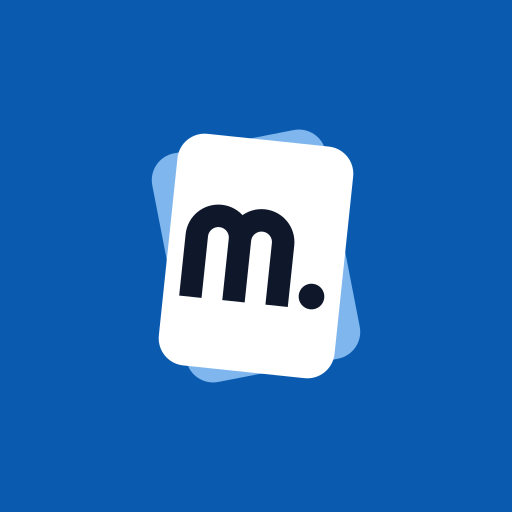
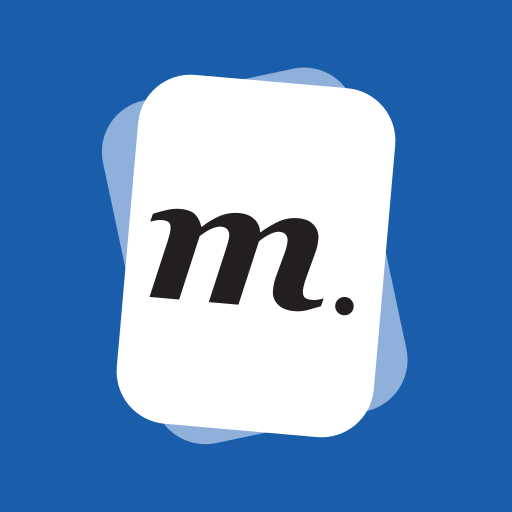
Add files via upload

Changed region(s): [[0.1875, 0.125, 0.8125, 0.875]]

diff --git a/sw.js b/sw.js
@@ -1,1 +1,1 @@
-try{self["workbox:core:7.4.0"]&&_()}catch(t){}const t=(t,...e)=>{let s=t;return e.length>0&&(s+=` :: ${JSON.stringify(e)}`),s};class e extends Error{constructor(e,s){super(t(e,s)),this.name=e,this.details=s}}try{self["workbox:routing:7.4.0"]&&_()}catch(t){}const s=t=>t&&"object"==typeof t?t:{handle:t};class n{constructor(t,e,n="GET"){this.handler=s(e),this.match=t,this.method=n}setCatchHandler(t){this.catchHandler=s(t)}}class i extends n{constructor(t,e,s){super(({url:e})=>{const s=t.exec(e.href);if(s&&(e.origin===location.origin||0===s.index))return s.slice(1)},e,s)}}class r{constructor(){this.t=new Map,this.i=new Map}get routes(){return this.t}addFetchListener(){self.addEventListener("fetch",t=>{const{request:e}=t,s=this.handleRequest({request:e,event:t});s&&t.respondWith(s)})}addCacheListener(){self.addEventListener("message",t=>{if(t.data&&"CACHE_URLS"===t.data.type){const{payload:e}=t.data,s=Promise.all(e.urlsToCache.map(e=>{"string"==typeof e&&(e=[e]);const s=new Request(...e);return this.handleRequest({request:s,event:t})}));t.waitUntil(s),t.ports&&t.ports[0]&&s.then(()=>t.ports[0].postMessage(!0))}})}handleRequest({request:t,event:e}){const s=new URL(t.url,location.href);if(!s.protocol.startsWith("http"))return;const n=s.origin===location.origin,{params:i,route:r}=this.findMatchingRoute({event:e,request:t,sameOrigin:n,url:s});let a=r&&r.handler;const o=t.method;if(!a&&this.i.has(o)&&(a=this.i.get(o)),!a)return;let c;try{c=a.handle({url:s,request:t,event:e,params:i})}catch(t){c=Promise.reject(t)}const h=r&&r.catchHandler;return c instanceof Promise&&(this.o||h)&&(c=c.catch(async n=>{if(h)try{return await h.handle({url:s,request:t,event:e,params:i})}catch(t){t instanceof Error&&(n=t)}if(this.o)return this.o.handle({url:s,request:t,event:e});throw n})),c}findMatchingRoute({url:t,sameOrigin:e,request:s,event:n}){const i=this.t.get(s.method)||[];for(const r of i){let i;const a=r.match({url:t,sameOrigin:e,request:s,event:n});if(a)return i=a,(Array.isArray(i)&&0===i.length||a.constructor===Object&&0===Object.keys(a).length||"boolean"==typeof a)&&(i=void 0),{route:r,params:i}}return{}}setDefaultHandler(t,e="GET"){this.i.set(e,s(t))}setCatchHandler(t){this.o=s(t)}registerRoute(t){this.t.has(t.method)||this.t.set(t.method,[]),this.t.get(t.method).push(t)}unregisterRoute(t){if(!this.t.has(t.method))throw new e("unregister-route-but-not-found-with-method",{method:t.method});const s=this.t.get(t.method).indexOf(t);if(!(s>-1))throw new e("unregister-route-route-not-registered");this.t.get(t.method).splice(s,1)}}let a;const o=()=>(a||(a=new r,a.addFetchListener(),a.addCacheListener()),a);function c(t,s,r){let a;if("string"==typeof t){const e=new URL(t,location.href);a=new n(({url:t})=>t.href===e.href,s,r)}else if(t instanceof RegExp)a=new i(t,s,r);else if("function"==typeof t)a=new n(t,s,r);else{if(!(t instanceof n))throw new e("unsupported-route-type",{moduleName:"workbox-routing",funcName:"registerRoute",paramName:"capture"});a=t}return o().registerRoute(a),a}const h={googleAnalytics:"googleAnalytics",precache:"precache-v2",prefix:"workbox",runtime:"runtime",suffix:"undefined"!=typeof registration?registration.scope:""},u=t=>[h.prefix,t,h.suffix].filter(t=>t&&t.length>0).join("-"),l=t=>t||u(h.precache),f=t=>t||u(h.runtime);function w(t){t.then(()=>{})}const d=new Set;function p(){return p=Object.assign?Object.assign.bind():function(t){for(var e=1;e<arguments.length;e++){var s=arguments[e];for(var n in s)({}).hasOwnProperty.call(s,n)&&(t[n]=s[n])}return t},p.apply(null,arguments)}let y,m;const g=new WeakMap,b=new WeakMap,v=new WeakMap,R=new WeakMap,q=new WeakMap;let D={get(t,e,s){if(t instanceof IDBTransaction){if("done"===e)return b.get(t);if("objectStoreNames"===e)return t.objectStoreNames||v.get(t);if("store"===e)return s.objectStoreNames[1]?void 0:s.objectStore(s.objectStoreNames[0])}return E(t[e])},set:(t,e,s)=>(t[e]=s,!0),has:(t,e)=>t instanceof IDBTransaction&&("done"===e||"store"===e)||e in t};function x(t){return t!==IDBDatabase.prototype.transaction||"objectStoreNames"in IDBTransaction.prototype?(m||(m=[IDBCursor.prototype.advance,IDBCursor.prototype.continue,IDBCursor.prototype.continuePrimaryKey])).includes(t)?function(...e){return t.apply(I(this),e),E(g.get(this))}:function(...e){return E(t.apply(I(this),e))}:function(e,...s){const n=t.call(I(this),e,...s);return v.set(n,e.sort?e.sort():[e]),E(n)}}function U(t){return"function"==typeof t?x(t):(t instanceof IDBTransaction&&function(t){if(b.has(t))return;const e=new Promise((e,s)=>{const n=()=>{t.removeEventListener("complete",i),t.removeEventListener("error",r),t.removeEventListener("abort",r)},i=()=>{e(),n()},r=()=>{s(t.error||new DOMException("AbortError","AbortError")),n()};t.addEventListener("complete",i),t.addEventListener("error",r),t.addEventListener("abort",r)});b.set(t,e)}(t),e=t,(y||(y=[IDBDatabase,IDBObjectStore,IDBIndex,IDBCursor,IDBTransaction])).some(t=>e instanceof t)?new Proxy(t,D):t);var e}function E(t){if(t instanceof IDBRequest)return function(t){const e=new Promise((e,s)=>{const n=()=>{t.removeEventListener("success",i),t.removeEventListener("error",r)},i=()=>{e(E(t.result)),n()},r=()=>{s(t.error),n()};t.addEventListener("success",i),t.addEventListener("error",r)});return e.then(e=>{e instanceof IDBCursor&&g.set(e,t)}).catch(()=>{}),q.set(e,t),e}(t);if(R.has(t))return R.get(t);const e=U(t);return e!==t&&(R.set(t,e),q.set(e,t)),e}const I=t=>q.get(t);const L=["get","getKey","getAll","getAllKeys","count"],N=["put","add","delete","clear"],T=new Map;function k(t,e){if(!(t instanceof IDBDatabase)||e in t||"string"!=typeof e)return;if(T.get(e))return T.get(e);const s=e.replace(/FromIndex$/,""),n=e!==s,i=N.includes(s);if(!(s in(n?IDBIndex:IDBObjectStore).prototype)||!i&&!L.includes(s))return;const r=async function(t,...e){const r=this.transaction(t,i?"readwrite":"readonly");let a=r.store;return n&&(a=a.index(e.shift())),(await Promise.all([a[s](...e),i&&r.done]))[0]};return T.set(e,r),r}D=(t=>p({},t,{get:(e,s,n)=>k(e,s)||t.get(e,s,n),has:(e,s)=>!!k(e,s)||t.has(e,s)}))(D);try{self["workbox:expiration:7.4.0"]&&_()}catch(t){}const C="cache-entries",O=t=>{const e=new URL(t,location.href);return e.hash="",e.href};class B{constructor(t){this.h=null,this.u=t}l(t){const e=t.createObjectStore(C,{keyPath:"id"});e.createIndex("cacheName","cacheName",{unique:!1}),e.createIndex("timestamp","timestamp",{unique:!1})}p(t){this.l(t),this.u&&function(t,{blocked:e}={}){const s=indexedDB.deleteDatabase(t);e&&s.addEventListener("blocked",t=>e(t.oldVersion,t)),E(s).then(()=>{})}(this.u)}async setTimestamp(t,e){const s={url:t=O(t),timestamp:e,cacheName:this.u,id:this.m(t)},n=(await this.getDb()).transaction(C,"readwrite",{durability:"relaxed"});await n.store.put(s),await n.done}async getTimestamp(t){const e=await this.getDb(),s=await e.get(C,this.m(t));return null==s?void 0:s.timestamp}async expireEntries(t,e){const s=await this.getDb();let n=await s.transaction(C).store.index("timestamp").openCursor(null,"prev");const i=[];let r=0;for(;n;){const s=n.value;s.cacheName===this.u&&(t&&s.timestamp<t||e&&r>=e?i.push(n.value):r++),n=await n.continue()}const a=[];for(const t of i)await s.delete(C,t.id),a.push(t.url);return a}m(t){return this.u+"|"+O(t)}async getDb(){return this.h||(this.h=await function(t,e,{blocked:s,upgrade:n,blocking:i,terminated:r}={}){const a=indexedDB.open(t,e),o=E(a);return n&&a.addEventListener("upgradeneeded",t=>{n(E(a.result),t.oldVersion,t.newVersion,E(a.transaction),t)}),s&&a.addEventListener("blocked",t=>s(t.oldVersion,t.newVersion,t)),o.then(t=>{r&&t.addEventListener("close",()=>r()),i&&t.addEventListener("versionchange",t=>i(t.oldVersion,t.newVersion,t))}).catch(()=>{}),o}("workbox-expiration",1,{upgrade:this.p.bind(this)})),this.h}}class P{constructor(t,e={}){this.v=!1,this.R=!1,this.q=e.maxEntries,this.D=e.maxAgeSeconds,this.U=e.matchOptions,this.u=t,this._=new B(t)}async expireEntries(){if(this.v)return void(this.R=!0);this.v=!0;const t=this.D?Date.now()-1e3*this.D:0,e=await this._.expireEntries(t,this.q),s=await self.caches.open(this.u);for(const t of e)await s.delete(t,this.U);this.v=!1,this.R&&(this.R=!1,w(this.expireEntries()))}async updateTimestamp(t){await this._.setTimestamp(t,Date.now())}async isURLExpired(t){if(this.D){const e=await this._.getTimestamp(t),s=Date.now()-1e3*this.D;return void 0===e||e<s}return!1}async delete(){this.R=!1,await this._.expireEntries(1/0)}}class M{constructor(t={}){this.cachedResponseWillBeUsed=async({event:t,request:e,cacheName:s,cachedResponse:n})=>{if(!n)return null;const i=this.I(n),r=this.L(s);w(r.expireEntries());const a=r.updateTimestamp(e.url);if(t)try{t.waitUntil(a)}catch(t){}return i?n:null},this.cacheDidUpdate=async({cacheName:t,request:e})=>{const s=this.L(t);await s.updateTimestamp(e.url),await s.expireEntries()},this.N=t,this.D=t.maxAgeSeconds,this.T=new Map,t.purgeOnQuotaError&&function(t){d.add(t)}(()=>this.deleteCacheAndMetadata())}L(t){if(t===f())throw new e("expire-custom-caches-only");let s=this.T.get(t);return s||(s=new P(t,this.N),this.T.set(t,s)),s}I(t){if(!this.D)return!0;const e=this.k(t);if(null===e)return!0;return e>=Date.now()-1e3*this.D}k(t){if(!t.headers.has("date"))return null;const e=t.headers.get("date"),s=new Date(e).getTime();return isNaN(s)?null:s}async deleteCacheAndMetadata(){for(const[t,e]of this.T)await self.caches.delete(t),await e.delete();this.T=new Map}}try{self["workbox:strategies:7.4.0"]&&_()}catch(t){}const S={cacheWillUpdate:async({response:t})=>200===t.status||0===t.status?t:null};function W(t,e){const s=new URL(t);for(const t of e)s.searchParams.delete(t);return s.href}class j{constructor(){this.promise=new Promise((t,e)=>{this.resolve=t,this.reject=e})}}function K(t){return"string"==typeof t?new Request(t):t}class A{constructor(t,e){this.C={},Object.assign(this,e),this.event=e.event,this.O=t,this.B=new j,this.P=[],this.M=[...t.plugins],this.S=new Map;for(const t of this.M)this.S.set(t,{});this.event.waitUntil(this.B.promise)}async fetch(t){const{event:s}=this;let n=K(t);if("navigate"===n.mode&&s instanceof FetchEvent&&s.preloadResponse){const t=await s.preloadResponse;if(t)return t}const i=this.hasCallback("fetchDidFail")?n.clone():null;try{for(const t of this.iterateCallbacks("requestWillFetch"))n=await t({request:n.clone(),event:s})}catch(t){if(t instanceof Error)throw new e("plugin-error-request-will-fetch",{thrownErrorMessage:t.message})}const r=n.clone();try{let t;t=await fetch(n,"navigate"===n.mode?void 0:this.O.fetchOptions);for(const e of this.iterateCallbacks("fetchDidSucceed"))t=await e({event:s,request:r,response:t});return t}catch(t){throw i&&await this.runCallbacks("fetchDidFail",{error:t,event:s,originalRequest:i.clone(),request:r.clone()}),t}}async fetchAndCachePut(t){const e=await this.fetch(t),s=e.clone();return this.waitUntil(this.cachePut(t,s)),e}async cacheMatch(t){const e=K(t);let s;const{cacheName:n,matchOptions:i}=this.O,r=await this.getCacheKey(e,"read"),a=Object.assign(Object.assign({},i),{cacheName:n});s=await caches.match(r,a);for(const t of this.iterateCallbacks("cachedResponseWillBeUsed"))s=await t({cacheName:n,matchOptions:i,cachedResponse:s,request:r,event:this.event})||void 0;return s}async cachePut(t,s){const n=K(t);var i;await(i=0,new Promise(t=>setTimeout(t,i)));const r=await this.getCacheKey(n,"write");if(!s)throw new e("cache-put-with-no-response",{url:(a=r.url,new URL(String(a),location.href).href.replace(new RegExp(`^${location.origin}`),""))});var a;const o=await this.W(s);if(!o)return!1;const{cacheName:c,matchOptions:h}=this.O,u=await self.caches.open(c),l=this.hasCallback("cacheDidUpdate"),f=l?await async function(t,e,s,n){const i=W(e.url,s);if(e.url===i)return t.match(e,n);const r=Object.assign(Object.assign({},n),{ignoreSearch:!0}),a=await t.keys(e,r);for(const e of a)if(i===W(e.url,s))return t.match(e,n)}(u,r.clone(),["__WB_REVISION__"],h):null;try{await u.put(r,l?o.clone():o)}catch(t){if(t instanceof Error)throw"QuotaExceededError"===t.name&&await async function(){for(const t of d)await t()}(),t}for(const t of this.iterateCallbacks("cacheDidUpdate"))await t({cacheName:c,oldResponse:f,newResponse:o.clone(),request:r,event:this.event});return!0}async getCacheKey(t,e){const s=`${t.url} | ${e}`;if(!this.C[s]){let n=t;for(const t of this.iterateCallbacks("cacheKeyWillBeUsed"))n=K(await t({mode:e,request:n,event:this.event,params:this.params}));this.C[s]=n}return this.C[s]}hasCallback(t){for(const e of this.O.plugins)if(t in e)return!0;return!1}async runCallbacks(t,e){for(const s of this.iterateCallbacks(t))await s(e)}*iterateCallbacks(t){for(const e of this.O.plugins)if("function"==typeof e[t]){const s=this.S.get(e),n=n=>{const i=Object.assign(Object.assign({},n),{state:s});return e[t](i)};yield n}}waitUntil(t){return this.P.push(t),t}async doneWaiting(){for(;this.P.length;){const t=this.P.splice(0),e=(await Promise.allSettled(t)).find(t=>"rejected"===t.status);if(e)throw e.reason}}destroy(){this.B.resolve(null)}async W(t){let e=t,s=!1;for(const t of this.iterateCallbacks("cacheWillUpdate"))if(e=await t({request:this.request,response:e,event:this.event})||void 0,s=!0,!e)break;return s||e&&200!==e.status&&(e=void 0),e}}class F{constructor(t={}){this.cacheName=f(t.cacheName),this.plugins=t.plugins||[],this.fetchOptions=t.fetchOptions,this.matchOptions=t.matchOptions}handle(t){const[e]=this.handleAll(t);return e}handleAll(t){t instanceof FetchEvent&&(t={event:t,request:t.request});const e=t.event,s="string"==typeof t.request?new Request(t.request):t.request,n="params"in t?t.params:void 0,i=new A(this,{event:e,request:s,params:n}),r=this.j(i,s,e);return[r,this.K(r,i,s,e)]}async j(t,s,n){let i;await t.runCallbacks("handlerWillStart",{event:n,request:s});try{if(i=await this.A(s,t),!i||"error"===i.type)throw new e("no-response",{url:s.url})}catch(e){if(e instanceof Error)for(const r of t.iterateCallbacks("handlerDidError"))if(i=await r({error:e,event:n,request:s}),i)break;if(!i)throw e}for(const e of t.iterateCallbacks("handlerWillRespond"))i=await e({event:n,request:s,response:i});return i}async K(t,e,s,n){let i,r;try{i=await t}catch(r){}try{await e.runCallbacks("handlerDidRespond",{event:n,request:s,response:i}),await e.doneWaiting()}catch(t){t instanceof Error&&(r=t)}if(await e.runCallbacks("handlerDidComplete",{event:n,request:s,response:i,error:r}),e.destroy(),r)throw r}}class $ extends F{constructor(t={}){super(t),this.plugins.some(t=>"cacheWillUpdate"in t)||this.plugins.unshift(S),this.F=t.networkTimeoutSeconds||0}async A(t,s){const n=[],i=[];let r;if(this.F){const{id:e,promise:a}=this.$({request:t,logs:n,handler:s});r=e,i.push(a)}const a=this.H({timeoutId:r,request:t,logs:n,handler:s});i.push(a);const o=await s.waitUntil((async()=>await s.waitUntil(Promise.race(i))||await a)());if(!o)throw new e("no-response",{url:t.url});return o}$({request:t,logs:e,handler:s}){let n;return{promise:new Promise(e=>{n=setTimeout(async()=>{e(await s.cacheMatch(t))},1e3*this.F)}),id:n}}async H({timeoutId:t,request:e,logs:s,handler:n}){let i,r;try{r=await n.fetchAndCachePut(e)}catch(t){t instanceof Error&&(i=t)}return t&&clearTimeout(t),!i&&r||(r=await n.cacheMatch(e)),r}}function H(t,e){const s=e();return t.waitUntil(s),s}try{self["workbox:precaching:7.4.0"]&&_()}catch(t){}function G(t){if(!t)throw new e("add-to-cache-list-unexpected-type",{entry:t});if("string"==typeof t){const e=new URL(t,location.href);return{cacheKey:e.href,url:e.href}}const{revision:s,url:n}=t;if(!n)throw new e("add-to-cache-list-unexpected-type",{entry:t});if(!s){const t=new URL(n,location.href);return{cacheKey:t.href,url:t.href}}const i=new URL(n,location.href),r=new URL(n,location.href);return i.searchParams.set("__WB_REVISION__",s),{cacheKey:i.href,url:r.href}}class V{constructor(){this.updatedURLs=[],this.notUpdatedURLs=[],this.handlerWillStart=async({request:t,state:e})=>{e&&(e.originalRequest=t)},this.cachedResponseWillBeUsed=async({event:t,state:e,cachedResponse:s})=>{if("install"===t.type&&e&&e.originalRequest&&e.originalRequest instanceof Request){const t=e.originalRequest.url;s?this.notUpdatedURLs.push(t):this.updatedURLs.push(t)}return s}}}class J{constructor({precacheController:t}){this.cacheKeyWillBeUsed=async({request:t,params:e})=>{const s=(null==e?void 0:e.cacheKey)||this.G.getCacheKeyForURL(t.url);return s?new Request(s,{headers:t.headers}):t},this.G=t}}let Q,z;async function X(t,s){let n=null;if(t.url){n=new URL(t.url).origin}if(n!==self.location.origin)throw new e("cross-origin-copy-response",{origin:n});const i=t.clone(),r={headers:new Headers(i.headers),status:i.status,statusText:i.statusText},a=function(){if(void 0===Q){const t=new Response("");if("body"in t)try{new Response(t.body),Q=!0}catch(t){Q=!1}Q=!1}return Q}()?i.body:await i.blob();return new Response(a,r)}class Y extends F{constructor(t={}){t.cacheName=l(t.cacheName),super(t),this.V=!1!==t.fallbackToNetwork,this.plugins.push(Y.copyRedirectedCacheableResponsesPlugin)}async A(t,e){const s=await e.cacheMatch(t);return s||(e.event&&"install"===e.event.type?await this.J(t,e):await this.X(t,e))}async X(t,s){let n;const i=s.params||{};if(!this.V)throw new e("missing-precache-entry",{cacheName:this.cacheName,url:t.url});{const e=i.integrity,r=t.integrity,a=!r||r===e;n=await s.fetch(new Request(t,{integrity:"no-cors"!==t.mode?r||e:void 0})),e&&a&&"no-cors"!==t.mode&&(this.Y(),await s.cachePut(t,n.clone()))}return n}async J(t,s){this.Y();const n=await s.fetch(t);if(!await s.cachePut(t,n.clone()))throw new e("bad-precaching-response",{url:t.url,status:n.status});return n}Y(){let t=null,e=0;for(const[s,n]of this.plugins.entries())n!==Y.copyRedirectedCacheableResponsesPlugin&&(n===Y.defaultPrecacheCacheabilityPlugin&&(t=s),n.cacheWillUpdate&&e++);0===e?this.plugins.push(Y.defaultPrecacheCacheabilityPlugin):e>1&&null!==t&&this.plugins.splice(t,1)}}Y.defaultPrecacheCacheabilityPlugin={cacheWillUpdate:async({response:t})=>!t||t.status>=400?null:t},Y.copyRedirectedCacheableResponsesPlugin={cacheWillUpdate:async({response:t})=>t.redirected?await X(t):t};class Z{constructor({cacheName:t,plugins:e=[],fallbackToNetwork:s=!0}={}){this.Z=new Map,this.tt=new Map,this.et=new Map,this.O=new Y({cacheName:l(t),plugins:[...e,new J({precacheController:this})],fallbackToNetwork:s}),this.install=this.install.bind(this),this.activate=this.activate.bind(this)}get strategy(){return this.O}precache(t){this.addToCacheList(t),this.st||(self.addEventListener("install",this.install),self.addEventListener("activate",this.activate),this.st=!0)}addToCacheList(t){const s=[];for(const n of t){"string"==typeof n?s.push(n):n&&void 0===n.revision&&s.push(n.url);const{cacheKey:t,url:i}=G(n),r="string"!=typeof n&&n.revision?"reload":"default";if(this.Z.has(i)&&this.Z.get(i)!==t)throw new e("add-to-cache-list-conflicting-entries",{firstEntry:this.Z.get(i),secondEntry:t});if("string"!=typeof n&&n.integrity){if(this.et.has(t)&&this.et.get(t)!==n.integrity)throw new e("add-to-cache-list-conflicting-integrities",{url:i});this.et.set(t,n.integrity)}if(this.Z.set(i,t),this.tt.set(i,r),s.length>0){const t=`Workbox is precaching URLs without revision info: ${s.join(", ")}\nThis is generally NOT safe. Learn more at https://bit.ly/wb-precache`;console.warn(t)}}}install(t){return H(t,async()=>{const e=new V;this.strategy.plugins.push(e);for(const[e,s]of this.Z){const n=this.et.get(s),i=this.tt.get(e),r=new Request(e,{integrity:n,cache:i,credentials:"same-origin"});await Promise.all(this.strategy.handleAll({params:{cacheKey:s},request:r,event:t}))}const{updatedURLs:s,notUpdatedURLs:n}=e;return{updatedURLs:s,notUpdatedURLs:n}})}activate(t){return H(t,async()=>{const t=await self.caches.open(this.strategy.cacheName),e=await t.keys(),s=new Set(this.Z.values()),n=[];for(const i of e)s.has(i.url)||(await t.delete(i),n.push(i.url));return{deletedURLs:n}})}getURLsToCacheKeys(){return this.Z}getCachedURLs(){return[...this.Z.keys()]}getCacheKeyForURL(t){const e=new URL(t,location.href);return this.Z.get(e.href)}getIntegrityForCacheKey(t){return this.et.get(t)}async matchPrecache(t){const e=t instanceof Request?t.url:t,s=this.getCacheKeyForURL(e);if(s){return(await self.caches.open(this.strategy.cacheName)).match(s)}}createHandlerBoundToURL(t){const s=this.getCacheKeyForURL(t);if(!s)throw new e("non-precached-url",{url:t});return e=>(e.request=new Request(t),e.params=Object.assign({cacheKey:s},e.params),this.strategy.handle(e))}}const tt=()=>(z||(z=new Z),z);class et extends n{constructor(t,e){super(({request:s})=>{const n=t.getURLsToCacheKeys();for(const i of function*(t,{ignoreURLParametersMatching:e=[/^utm_/,/^fbclid$/],directoryIndex:s="index.html",cleanURLs:n=!0,urlManipulation:i}={}){const r=new URL(t,location.href);r.hash="",yield r.href;const a=function(t,e=[]){for(const s of[...t.searchParams.keys()])e.some(t=>t.test(s))&&t.searchParams.delete(s);return t}(r,e);if(yield a.href,s&&a.pathname.endsWith("/")){const t=new URL(a.href);t.pathname+=s,yield t.href}if(n){const t=new URL(a.href);t.pathname+=".html",yield t.href}if(i){const t=i({url:r});for(const e of t)yield e.href}}(s.url,e)){const e=n.get(i);if(e){return{cacheKey:e,integrity:t.getIntegrityForCacheKey(e)}}}},t.strategy)}}var st,nt;self.skipWaiting(),self.addEventListener("activate",()=>self.clients.claim()),st={},function(t){tt().precache(t)}([{url:"pwa-512x512.png",revision:"1fd420bc8058b2bba0c0f84189c8d31b"},{url:"pwa-192x192.png",revision:"097ad879199299e0e3b0fd56ab47b83e"},{url:"maskable-512x512.png",revision:"536bc645c5a0650024ed2747326671a7"},{url:"manifest.webmanifest",revision:"12393d45d35449ba7c7c7ca041d455ab"},{url:"index.html",revision:"d3cb89ab71cb25ec2ee5a0197d181b29"},{url:"favicon.svg",revision:"472b593ad4a8e5982a4cba7069d97bfe"},{url:"favicon-64.png",revision:"10cc7a01b8038af8b070ee0870e2d288"},{url:"apple-touch-icon.png",revision:"b9e2a7d5e29e57eb29741cd7cdb88215"},{url:"manifest.webmanifest",revision:"12393d45d35449ba7c7c7ca041d455ab"}]),function(t){const e=tt();c(new et(e,t))}(st),self.addEventListener("activate",t=>{const e=l();t.waitUntil((async(t,e="-precache-")=>{const s=(await self.caches.keys()).filter(s=>s.includes(e)&&s.includes(self.registration.scope)&&s!==t);return await Promise.all(s.map(t=>self.caches.delete(t))),s})(e).then(t=>{}))}),c(new class extends n{constructor(t,{allowlist:e=[/./],denylist:s=[]}={}){super(t=>this.nt(t),t),this.it=e,this.rt=s}nt({url:t,request:e}){if(e&&"navigate"!==e.mode)return!1;const s=t.pathname+t.search;for(const t of this.rt)if(t.test(s))return!1;return!!this.it.some(t=>t.test(s))}}((nt="index.html",tt().createHandlerBoundToURL(nt)))),c(/\/dictionary\.csv(\?.*)?$/,new $({cacheName:"eesti2000-dictionary",networkTimeoutSeconds:6,plugins:[new M({maxEntries:2})]}),"GET"),c(/\/grammar\.csv(\?.*)?$/,new $({cacheName:"eesti2000-grammar",networkTimeoutSeconds:6,plugins:[new M({maxEntries:2})]}),"GET"),c(/\/greetings\.csv(\?.*)?$/,new $({cacheName:"eesti2000-greetings",networkTimeoutSeconds:6,plugins:[new M({maxEntries:2})]}),"GET"),c(/\/praise\.csv(\?.*)?$/,new $({cacheName:"eesti2000-praise",networkTimeoutSeconds:6,plugins:[new M({maxEntries:2})]}),"GET");
+try{self["workbox:core:7.4.0"]&&_()}catch(t){}const t=(t,...e)=>{let s=t;return e.length>0&&(s+=` :: ${JSON.stringify(e)}`),s};class e extends Error{constructor(e,s){super(t(e,s)),this.name=e,this.details=s}}try{self["workbox:routing:7.4.0"]&&_()}catch(t){}const s=t=>t&&"object"==typeof t?t:{handle:t};class n{constructor(t,e,n="GET"){this.handler=s(e),this.match=t,this.method=n}setCatchHandler(t){this.catchHandler=s(t)}}class i extends n{constructor(t,e,s){super(({url:e})=>{const s=t.exec(e.href);if(s&&(e.origin===location.origin||0===s.index))return s.slice(1)},e,s)}}class r{constructor(){this.t=new Map,this.i=new Map}get routes(){return this.t}addFetchListener(){self.addEventListener("fetch",t=>{const{request:e}=t,s=this.handleRequest({request:e,event:t});s&&t.respondWith(s)})}addCacheListener(){self.addEventListener("message",t=>{if(t.data&&"CACHE_URLS"===t.data.type){const{payload:e}=t.data,s=Promise.all(e.urlsToCache.map(e=>{"string"==typeof e&&(e=[e]);const s=new Request(...e);return this.handleRequest({request:s,event:t})}));t.waitUntil(s),t.ports&&t.ports[0]&&s.then(()=>t.ports[0].postMessage(!0))}})}handleRequest({request:t,event:e}){const s=new URL(t.url,location.href);if(!s.protocol.startsWith("http"))return;const n=s.origin===location.origin,{params:i,route:r}=this.findMatchingRoute({event:e,request:t,sameOrigin:n,url:s});let a=r&&r.handler;const o=t.method;if(!a&&this.i.has(o)&&(a=this.i.get(o)),!a)return;let c;try{c=a.handle({url:s,request:t,event:e,params:i})}catch(t){c=Promise.reject(t)}const h=r&&r.catchHandler;return c instanceof Promise&&(this.o||h)&&(c=c.catch(async n=>{if(h)try{return await h.handle({url:s,request:t,event:e,params:i})}catch(t){t instanceof Error&&(n=t)}if(this.o)return this.o.handle({url:s,request:t,event:e});throw n})),c}findMatchingRoute({url:t,sameOrigin:e,request:s,event:n}){const i=this.t.get(s.method)||[];for(const r of i){let i;const a=r.match({url:t,sameOrigin:e,request:s,event:n});if(a)return i=a,(Array.isArray(i)&&0===i.length||a.constructor===Object&&0===Object.keys(a).length||"boolean"==typeof a)&&(i=void 0),{route:r,params:i}}return{}}setDefaultHandler(t,e="GET"){this.i.set(e,s(t))}setCatchHandler(t){this.o=s(t)}registerRoute(t){this.t.has(t.method)||this.t.set(t.method,[]),this.t.get(t.method).push(t)}unregisterRoute(t){if(!this.t.has(t.method))throw new e("unregister-route-but-not-found-with-method",{method:t.method});const s=this.t.get(t.method).indexOf(t);if(!(s>-1))throw new e("unregister-route-route-not-registered");this.t.get(t.method).splice(s,1)}}let a;const o=()=>(a||(a=new r,a.addFetchListener(),a.addCacheListener()),a);function c(t,s,r){let a;if("string"==typeof t){const e=new URL(t,location.href);a=new n(({url:t})=>t.href===e.href,s,r)}else if(t instanceof RegExp)a=new i(t,s,r);else if("function"==typeof t)a=new n(t,s,r);else{if(!(t instanceof n))throw new e("unsupported-route-type",{moduleName:"workbox-routing",funcName:"registerRoute",paramName:"capture"});a=t}return o().registerRoute(a),a}const h={googleAnalytics:"googleAnalytics",precache:"precache-v2",prefix:"workbox",runtime:"runtime",suffix:"undefined"!=typeof registration?registration.scope:""},u=t=>[h.prefix,t,h.suffix].filter(t=>t&&t.length>0).join("-"),l=t=>t||u(h.precache),f=t=>t||u(h.runtime);function w(t){t.then(()=>{})}const d=new Set;function p(){return p=Object.assign?Object.assign.bind():function(t){for(var e=1;e<arguments.length;e++){var s=arguments[e];for(var n in s)({}).hasOwnProperty.call(s,n)&&(t[n]=s[n])}return t},p.apply(null,arguments)}let y,m;const g=new WeakMap,b=new WeakMap,v=new WeakMap,R=new WeakMap,q=new WeakMap;let D={get(t,e,s){if(t instanceof IDBTransaction){if("done"===e)return b.get(t);if("objectStoreNames"===e)return t.objectStoreNames||v.get(t);if("store"===e)return s.objectStoreNames[1]?void 0:s.objectStore(s.objectStoreNames[0])}return E(t[e])},set:(t,e,s)=>(t[e]=s,!0),has:(t,e)=>t instanceof IDBTransaction&&("done"===e||"store"===e)||e in t};function x(t){return t!==IDBDatabase.prototype.transaction||"objectStoreNames"in IDBTransaction.prototype?(m||(m=[IDBCursor.prototype.advance,IDBCursor.prototype.continue,IDBCursor.prototype.continuePrimaryKey])).includes(t)?function(...e){return t.apply(I(this),e),E(g.get(this))}:function(...e){return E(t.apply(I(this),e))}:function(e,...s){const n=t.call(I(this),e,...s);return v.set(n,e.sort?e.sort():[e]),E(n)}}function U(t){return"function"==typeof t?x(t):(t instanceof IDBTransaction&&function(t){if(b.has(t))return;const e=new Promise((e,s)=>{const n=()=>{t.removeEventListener("complete",i),t.removeEventListener("error",r),t.removeEventListener("abort",r)},i=()=>{e(),n()},r=()=>{s(t.error||new DOMException("AbortError","AbortError")),n()};t.addEventListener("complete",i),t.addEventListener("error",r),t.addEventListener("abort",r)});b.set(t,e)}(t),e=t,(y||(y=[IDBDatabase,IDBObjectStore,IDBIndex,IDBCursor,IDBTransaction])).some(t=>e instanceof t)?new Proxy(t,D):t);var e}function E(t){if(t instanceof IDBRequest)return function(t){const e=new Promise((e,s)=>{const n=()=>{t.removeEventListener("success",i),t.removeEventListener("error",r)},i=()=>{e(E(t.result)),n()},r=()=>{s(t.error),n()};t.addEventListener("success",i),t.addEventListener("error",r)});return e.then(e=>{e instanceof IDBCursor&&g.set(e,t)}).catch(()=>{}),q.set(e,t),e}(t);if(R.has(t))return R.get(t);const e=U(t);return e!==t&&(R.set(t,e),q.set(e,t)),e}const I=t=>q.get(t);const L=["get","getKey","getAll","getAllKeys","count"],N=["put","add","delete","clear"],T=new Map;function k(t,e){if(!(t instanceof IDBDatabase)||e in t||"string"!=typeof e)return;if(T.get(e))return T.get(e);const s=e.replace(/FromIndex$/,""),n=e!==s,i=N.includes(s);if(!(s in(n?IDBIndex:IDBObjectStore).prototype)||!i&&!L.includes(s))return;const r=async function(t,...e){const r=this.transaction(t,i?"readwrite":"readonly");let a=r.store;return n&&(a=a.index(e.shift())),(await Promise.all([a[s](...e),i&&r.done]))[0]};return T.set(e,r),r}D=(t=>p({},t,{get:(e,s,n)=>k(e,s)||t.get(e,s,n),has:(e,s)=>!!k(e,s)||t.has(e,s)}))(D);try{self["workbox:expiration:7.4.0"]&&_()}catch(t){}const C="cache-entries",O=t=>{const e=new URL(t,location.href);return e.hash="",e.href};class B{constructor(t){this.h=null,this.u=t}l(t){const e=t.createObjectStore(C,{keyPath:"id"});e.createIndex("cacheName","cacheName",{unique:!1}),e.createIndex("timestamp","timestamp",{unique:!1})}p(t){this.l(t),this.u&&function(t,{blocked:e}={}){const s=indexedDB.deleteDatabase(t);e&&s.addEventListener("blocked",t=>e(t.oldVersion,t)),E(s).then(()=>{})}(this.u)}async setTimestamp(t,e){const s={url:t=O(t),timestamp:e,cacheName:this.u,id:this.m(t)},n=(await this.getDb()).transaction(C,"readwrite",{durability:"relaxed"});await n.store.put(s),await n.done}async getTimestamp(t){const e=await this.getDb(),s=await e.get(C,this.m(t));return null==s?void 0:s.timestamp}async expireEntries(t,e){const s=await this.getDb();let n=await s.transaction(C).store.index("timestamp").openCursor(null,"prev");const i=[];let r=0;for(;n;){const s=n.value;s.cacheName===this.u&&(t&&s.timestamp<t||e&&r>=e?i.push(n.value):r++),n=await n.continue()}const a=[];for(const t of i)await s.delete(C,t.id),a.push(t.url);return a}m(t){return this.u+"|"+O(t)}async getDb(){return this.h||(this.h=await function(t,e,{blocked:s,upgrade:n,blocking:i,terminated:r}={}){const a=indexedDB.open(t,e),o=E(a);return n&&a.addEventListener("upgradeneeded",t=>{n(E(a.result),t.oldVersion,t.newVersion,E(a.transaction),t)}),s&&a.addEventListener("blocked",t=>s(t.oldVersion,t.newVersion,t)),o.then(t=>{r&&t.addEventListener("close",()=>r()),i&&t.addEventListener("versionchange",t=>i(t.oldVersion,t.newVersion,t))}).catch(()=>{}),o}("workbox-expiration",1,{upgrade:this.p.bind(this)})),this.h}}class P{constructor(t,e={}){this.v=!1,this.R=!1,this.q=e.maxEntries,this.D=e.maxAgeSeconds,this.U=e.matchOptions,this.u=t,this._=new B(t)}async expireEntries(){if(this.v)return void(this.R=!0);this.v=!0;const t=this.D?Date.now()-1e3*this.D:0,e=await this._.expireEntries(t,this.q),s=await self.caches.open(this.u);for(const t of e)await s.delete(t,this.U);this.v=!1,this.R&&(this.R=!1,w(this.expireEntries()))}async updateTimestamp(t){await this._.setTimestamp(t,Date.now())}async isURLExpired(t){if(this.D){const e=await this._.getTimestamp(t),s=Date.now()-1e3*this.D;return void 0===e||e<s}return!1}async delete(){this.R=!1,await this._.expireEntries(1/0)}}class M{constructor(t={}){this.cachedResponseWillBeUsed=async({event:t,request:e,cacheName:s,cachedResponse:n})=>{if(!n)return null;const i=this.I(n),r=this.L(s);w(r.expireEntries());const a=r.updateTimestamp(e.url);if(t)try{t.waitUntil(a)}catch(t){}return i?n:null},this.cacheDidUpdate=async({cacheName:t,request:e})=>{const s=this.L(t);await s.updateTimestamp(e.url),await s.expireEntries()},this.N=t,this.D=t.maxAgeSeconds,this.T=new Map,t.purgeOnQuotaError&&function(t){d.add(t)}(()=>this.deleteCacheAndMetadata())}L(t){if(t===f())throw new e("expire-custom-caches-only");let s=this.T.get(t);return s||(s=new P(t,this.N),this.T.set(t,s)),s}I(t){if(!this.D)return!0;const e=this.k(t);if(null===e)return!0;return e>=Date.now()-1e3*this.D}k(t){if(!t.headers.has("date"))return null;const e=t.headers.get("date"),s=new Date(e).getTime();return isNaN(s)?null:s}async deleteCacheAndMetadata(){for(const[t,e]of this.T)await self.caches.delete(t),await e.delete();this.T=new Map}}try{self["workbox:strategies:7.4.0"]&&_()}catch(t){}const S={cacheWillUpdate:async({response:t})=>200===t.status||0===t.status?t:null};function W(t,e){const s=new URL(t);for(const t of e)s.searchParams.delete(t);return s.href}class j{constructor(){this.promise=new Promise((t,e)=>{this.resolve=t,this.reject=e})}}function K(t){return"string"==typeof t?new Request(t):t}class A{constructor(t,e){this.C={},Object.assign(this,e),this.event=e.event,this.O=t,this.B=new j,this.P=[],this.M=[...t.plugins],this.S=new Map;for(const t of this.M)this.S.set(t,{});this.event.waitUntil(this.B.promise)}async fetch(t){const{event:s}=this;let n=K(t);if("navigate"===n.mode&&s instanceof FetchEvent&&s.preloadResponse){const t=await s.preloadResponse;if(t)return t}const i=this.hasCallback("fetchDidFail")?n.clone():null;try{for(const t of this.iterateCallbacks("requestWillFetch"))n=await t({request:n.clone(),event:s})}catch(t){if(t instanceof Error)throw new e("plugin-error-request-will-fetch",{thrownErrorMessage:t.message})}const r=n.clone();try{let t;t=await fetch(n,"navigate"===n.mode?void 0:this.O.fetchOptions);for(const e of this.iterateCallbacks("fetchDidSucceed"))t=await e({event:s,request:r,response:t});return t}catch(t){throw i&&await this.runCallbacks("fetchDidFail",{error:t,event:s,originalRequest:i.clone(),request:r.clone()}),t}}async fetchAndCachePut(t){const e=await this.fetch(t),s=e.clone();return this.waitUntil(this.cachePut(t,s)),e}async cacheMatch(t){const e=K(t);let s;const{cacheName:n,matchOptions:i}=this.O,r=await this.getCacheKey(e,"read"),a=Object.assign(Object.assign({},i),{cacheName:n});s=await caches.match(r,a);for(const t of this.iterateCallbacks("cachedResponseWillBeUsed"))s=await t({cacheName:n,matchOptions:i,cachedResponse:s,request:r,event:this.event})||void 0;return s}async cachePut(t,s){const n=K(t);var i;await(i=0,new Promise(t=>setTimeout(t,i)));const r=await this.getCacheKey(n,"write");if(!s)throw new e("cache-put-with-no-response",{url:(a=r.url,new URL(String(a),location.href).href.replace(new RegExp(`^${location.origin}`),""))});var a;const o=await this.W(s);if(!o)return!1;const{cacheName:c,matchOptions:h}=this.O,u=await self.caches.open(c),l=this.hasCallback("cacheDidUpdate"),f=l?await async function(t,e,s,n){const i=W(e.url,s);if(e.url===i)return t.match(e,n);const r=Object.assign(Object.assign({},n),{ignoreSearch:!0}),a=await t.keys(e,r);for(const e of a)if(i===W(e.url,s))return t.match(e,n)}(u,r.clone(),["__WB_REVISION__"],h):null;try{await u.put(r,l?o.clone():o)}catch(t){if(t instanceof Error)throw"QuotaExceededError"===t.name&&await async function(){for(const t of d)await t()}(),t}for(const t of this.iterateCallbacks("cacheDidUpdate"))await t({cacheName:c,oldResponse:f,newResponse:o.clone(),request:r,event:this.event});return!0}async getCacheKey(t,e){const s=`${t.url} | ${e}`;if(!this.C[s]){let n=t;for(const t of this.iterateCallbacks("cacheKeyWillBeUsed"))n=K(await t({mode:e,request:n,event:this.event,params:this.params}));this.C[s]=n}return this.C[s]}hasCallback(t){for(const e of this.O.plugins)if(t in e)return!0;return!1}async runCallbacks(t,e){for(const s of this.iterateCallbacks(t))await s(e)}*iterateCallbacks(t){for(const e of this.O.plugins)if("function"==typeof e[t]){const s=this.S.get(e),n=n=>{const i=Object.assign(Object.assign({},n),{state:s});return e[t](i)};yield n}}waitUntil(t){return this.P.push(t),t}async doneWaiting(){for(;this.P.length;){const t=this.P.splice(0),e=(await Promise.allSettled(t)).find(t=>"rejected"===t.status);if(e)throw e.reason}}destroy(){this.B.resolve(null)}async W(t){let e=t,s=!1;for(const t of this.iterateCallbacks("cacheWillUpdate"))if(e=await t({request:this.request,response:e,event:this.event})||void 0,s=!0,!e)break;return s||e&&200!==e.status&&(e=void 0),e}}class F{constructor(t={}){this.cacheName=f(t.cacheName),this.plugins=t.plugins||[],this.fetchOptions=t.fetchOptions,this.matchOptions=t.matchOptions}handle(t){const[e]=this.handleAll(t);return e}handleAll(t){t instanceof FetchEvent&&(t={event:t,request:t.request});const e=t.event,s="string"==typeof t.request?new Request(t.request):t.request,n="params"in t?t.params:void 0,i=new A(this,{event:e,request:s,params:n}),r=this.j(i,s,e);return[r,this.K(r,i,s,e)]}async j(t,s,n){let i;await t.runCallbacks("handlerWillStart",{event:n,request:s});try{if(i=await this.A(s,t),!i||"error"===i.type)throw new e("no-response",{url:s.url})}catch(e){if(e instanceof Error)for(const r of t.iterateCallbacks("handlerDidError"))if(i=await r({error:e,event:n,request:s}),i)break;if(!i)throw e}for(const e of t.iterateCallbacks("handlerWillRespond"))i=await e({event:n,request:s,response:i});return i}async K(t,e,s,n){let i,r;try{i=await t}catch(r){}try{await e.runCallbacks("handlerDidRespond",{event:n,request:s,response:i}),await e.doneWaiting()}catch(t){t instanceof Error&&(r=t)}if(await e.runCallbacks("handlerDidComplete",{event:n,request:s,response:i,error:r}),e.destroy(),r)throw r}}class $ extends F{constructor(t={}){super(t),this.plugins.some(t=>"cacheWillUpdate"in t)||this.plugins.unshift(S),this.F=t.networkTimeoutSeconds||0}async A(t,s){const n=[],i=[];let r;if(this.F){const{id:e,promise:a}=this.$({request:t,logs:n,handler:s});r=e,i.push(a)}const a=this.H({timeoutId:r,request:t,logs:n,handler:s});i.push(a);const o=await s.waitUntil((async()=>await s.waitUntil(Promise.race(i))||await a)());if(!o)throw new e("no-response",{url:t.url});return o}$({request:t,logs:e,handler:s}){let n;return{promise:new Promise(e=>{n=setTimeout(async()=>{e(await s.cacheMatch(t))},1e3*this.F)}),id:n}}async H({timeoutId:t,request:e,logs:s,handler:n}){let i,r;try{r=await n.fetchAndCachePut(e)}catch(t){t instanceof Error&&(i=t)}return t&&clearTimeout(t),!i&&r||(r=await n.cacheMatch(e)),r}}function H(t,e){const s=e();return t.waitUntil(s),s}try{self["workbox:precaching:7.4.0"]&&_()}catch(t){}function G(t){if(!t)throw new e("add-to-cache-list-unexpected-type",{entry:t});if("string"==typeof t){const e=new URL(t,location.href);return{cacheKey:e.href,url:e.href}}const{revision:s,url:n}=t;if(!n)throw new e("add-to-cache-list-unexpected-type",{entry:t});if(!s){const t=new URL(n,location.href);return{cacheKey:t.href,url:t.href}}const i=new URL(n,location.href),r=new URL(n,location.href);return i.searchParams.set("__WB_REVISION__",s),{cacheKey:i.href,url:r.href}}class V{constructor(){this.updatedURLs=[],this.notUpdatedURLs=[],this.handlerWillStart=async({request:t,state:e})=>{e&&(e.originalRequest=t)},this.cachedResponseWillBeUsed=async({event:t,state:e,cachedResponse:s})=>{if("install"===t.type&&e&&e.originalRequest&&e.originalRequest instanceof Request){const t=e.originalRequest.url;s?this.notUpdatedURLs.push(t):this.updatedURLs.push(t)}return s}}}class J{constructor({precacheController:t}){this.cacheKeyWillBeUsed=async({request:t,params:e})=>{const s=(null==e?void 0:e.cacheKey)||this.G.getCacheKeyForURL(t.url);return s?new Request(s,{headers:t.headers}):t},this.G=t}}let Q,z;async function X(t,s){let n=null;if(t.url){n=new URL(t.url).origin}if(n!==self.location.origin)throw new e("cross-origin-copy-response",{origin:n});const i=t.clone(),r={headers:new Headers(i.headers),status:i.status,statusText:i.statusText},a=function(){if(void 0===Q){const t=new Response("");if("body"in t)try{new Response(t.body),Q=!0}catch(t){Q=!1}Q=!1}return Q}()?i.body:await i.blob();return new Response(a,r)}class Y extends F{constructor(t={}){t.cacheName=l(t.cacheName),super(t),this.V=!1!==t.fallbackToNetwork,this.plugins.push(Y.copyRedirectedCacheableResponsesPlugin)}async A(t,e){const s=await e.cacheMatch(t);return s||(e.event&&"install"===e.event.type?await this.J(t,e):await this.X(t,e))}async X(t,s){let n;const i=s.params||{};if(!this.V)throw new e("missing-precache-entry",{cacheName:this.cacheName,url:t.url});{const e=i.integrity,r=t.integrity,a=!r||r===e;n=await s.fetch(new Request(t,{integrity:"no-cors"!==t.mode?r||e:void 0})),e&&a&&"no-cors"!==t.mode&&(this.Y(),await s.cachePut(t,n.clone()))}return n}async J(t,s){this.Y();const n=await s.fetch(t);if(!await s.cachePut(t,n.clone()))throw new e("bad-precaching-response",{url:t.url,status:n.status});return n}Y(){let t=null,e=0;for(const[s,n]of this.plugins.entries())n!==Y.copyRedirectedCacheableResponsesPlugin&&(n===Y.defaultPrecacheCacheabilityPlugin&&(t=s),n.cacheWillUpdate&&e++);0===e?this.plugins.push(Y.defaultPrecacheCacheabilityPlugin):e>1&&null!==t&&this.plugins.splice(t,1)}}Y.defaultPrecacheCacheabilityPlugin={cacheWillUpdate:async({response:t})=>!t||t.status>=400?null:t},Y.copyRedirectedCacheableResponsesPlugin={cacheWillUpdate:async({response:t})=>t.redirected?await X(t):t};class Z{constructor({cacheName:t,plugins:e=[],fallbackToNetwork:s=!0}={}){this.Z=new Map,this.tt=new Map,this.et=new Map,this.O=new Y({cacheName:l(t),plugins:[...e,new J({precacheController:this})],fallbackToNetwork:s}),this.install=this.install.bind(this),this.activate=this.activate.bind(this)}get strategy(){return this.O}precache(t){this.addToCacheList(t),this.st||(self.addEventListener("install",this.install),self.addEventListener("activate",this.activate),this.st=!0)}addToCacheList(t){const s=[];for(const n of t){"string"==typeof n?s.push(n):n&&void 0===n.revision&&s.push(n.url);const{cacheKey:t,url:i}=G(n),r="string"!=typeof n&&n.revision?"reload":"default";if(this.Z.has(i)&&this.Z.get(i)!==t)throw new e("add-to-cache-list-conflicting-entries",{firstEntry:this.Z.get(i),secondEntry:t});if("string"!=typeof n&&n.integrity){if(this.et.has(t)&&this.et.get(t)!==n.integrity)throw new e("add-to-cache-list-conflicting-integrities",{url:i});this.et.set(t,n.integrity)}if(this.Z.set(i,t),this.tt.set(i,r),s.length>0){const t=`Workbox is precaching URLs without revision info: ${s.join(", ")}\nThis is generally NOT safe. Learn more at https://bit.ly/wb-precache`;console.warn(t)}}}install(t){return H(t,async()=>{const e=new V;this.strategy.plugins.push(e);for(const[e,s]of this.Z){const n=this.et.get(s),i=this.tt.get(e),r=new Request(e,{integrity:n,cache:i,credentials:"same-origin"});await Promise.all(this.strategy.handleAll({params:{cacheKey:s},request:r,event:t}))}const{updatedURLs:s,notUpdatedURLs:n}=e;return{updatedURLs:s,notUpdatedURLs:n}})}activate(t){return H(t,async()=>{const t=await self.caches.open(this.strategy.cacheName),e=await t.keys(),s=new Set(this.Z.values()),n=[];for(const i of e)s.has(i.url)||(await t.delete(i),n.push(i.url));return{deletedURLs:n}})}getURLsToCacheKeys(){return this.Z}getCachedURLs(){return[...this.Z.keys()]}getCacheKeyForURL(t){const e=new URL(t,location.href);return this.Z.get(e.href)}getIntegrityForCacheKey(t){return this.et.get(t)}async matchPrecache(t){const e=t instanceof Request?t.url:t,s=this.getCacheKeyForURL(e);if(s){return(await self.caches.open(this.strategy.cacheName)).match(s)}}createHandlerBoundToURL(t){const s=this.getCacheKeyForURL(t);if(!s)throw new e("non-precached-url",{url:t});return e=>(e.request=new Request(t),e.params=Object.assign({cacheKey:s},e.params),this.strategy.handle(e))}}const tt=()=>(z||(z=new Z),z);class et extends n{constructor(t,e){super(({request:s})=>{const n=t.getURLsToCacheKeys();for(const i of function*(t,{ignoreURLParametersMatching:e=[/^utm_/,/^fbclid$/],directoryIndex:s="index.html",cleanURLs:n=!0,urlManipulation:i}={}){const r=new URL(t,location.href);r.hash="",yield r.href;const a=function(t,e=[]){for(const s of[...t.searchParams.keys()])e.some(t=>t.test(s))&&t.searchParams.delete(s);return t}(r,e);if(yield a.href,s&&a.pathname.endsWith("/")){const t=new URL(a.href);t.pathname+=s,yield t.href}if(n){const t=new URL(a.href);t.pathname+=".html",yield t.href}if(i){const t=i({url:r});for(const e of t)yield e.href}}(s.url,e)){const e=n.get(i);if(e){return{cacheKey:e,integrity:t.getIntegrityForCacheKey(e)}}}},t.strategy)}}var st,nt;self.skipWaiting(),self.addEventListener("activate",()=>self.clients.claim()),st={},function(t){tt().precache(t)}([{url:"pwa-512x512.png",revision:"642e9e2b7363ccf08d366879b3ed811d"},{url:"pwa-192x192.png",revision:"0093bbaa1b311d5fd0dc0a86edcb536f"},{url:"maskable-512x512.png",revision:"195ce0c35deb20212426b977095b41b7"},{url:"manifest.webmanifest",revision:"12393d45d35449ba7c7c7ca041d455ab"},{url:"index.html",revision:"d3cb89ab71cb25ec2ee5a0197d181b29"},{url:"favicon.svg",revision:"7f253175b97bca84fe17d796e4789ff4"},{url:"favicon-64.png",revision:"7b3002f5c02b911724714414a7317fae"},{url:"apple-touch-icon.png",revision:"40df6bef06a526eb7f9a17b3cd0d244e"},{url:"manifest.webmanifest",revision:"12393d45d35449ba7c7c7ca041d455ab"}]),function(t){const e=tt();c(new et(e,t))}(st),self.addEventListener("activate",t=>{const e=l();t.waitUntil((async(t,e="-precache-")=>{const s=(await self.caches.keys()).filter(s=>s.includes(e)&&s.includes(self.registration.scope)&&s!==t);return await Promise.all(s.map(t=>self.caches.delete(t))),s})(e).then(t=>{}))}),c(new class extends n{constructor(t,{allowlist:e=[/./],denylist:s=[]}={}){super(t=>this.nt(t),t),this.it=e,this.rt=s}nt({url:t,request:e}){if(e&&"navigate"!==e.mode)return!1;const s=t.pathname+t.search;for(const t of this.rt)if(t.test(s))return!1;return!!this.it.some(t=>t.test(s))}}((nt="index.html",tt().createHandlerBoundToURL(nt)))),c(/\/dictionary\.csv(\?.*)?$/,new $({cacheName:"eesti2000-dictionary",networkTimeoutSeconds:6,plugins:[new M({maxEntries:2})]}),"GET"),c(/\/grammar\.csv(\?.*)?$/,new $({cacheName:"eesti2000-grammar",networkTimeoutSeconds:6,plugins:[new M({maxEntries:2})]}),"GET"),c(/\/greetings\.csv(\?.*)?$/,new $({cacheName:"eesti2000-greetings",networkTimeoutSeconds:6,plugins:[new M({maxEntries:2})]}),"GET"),c(/\/praise\.csv(\?.*)?$/,new $({cacheName:"eesti2000-praise",networkTimeoutSeconds:6,plugins:[new M({maxEntries:2})]}),"GET");
